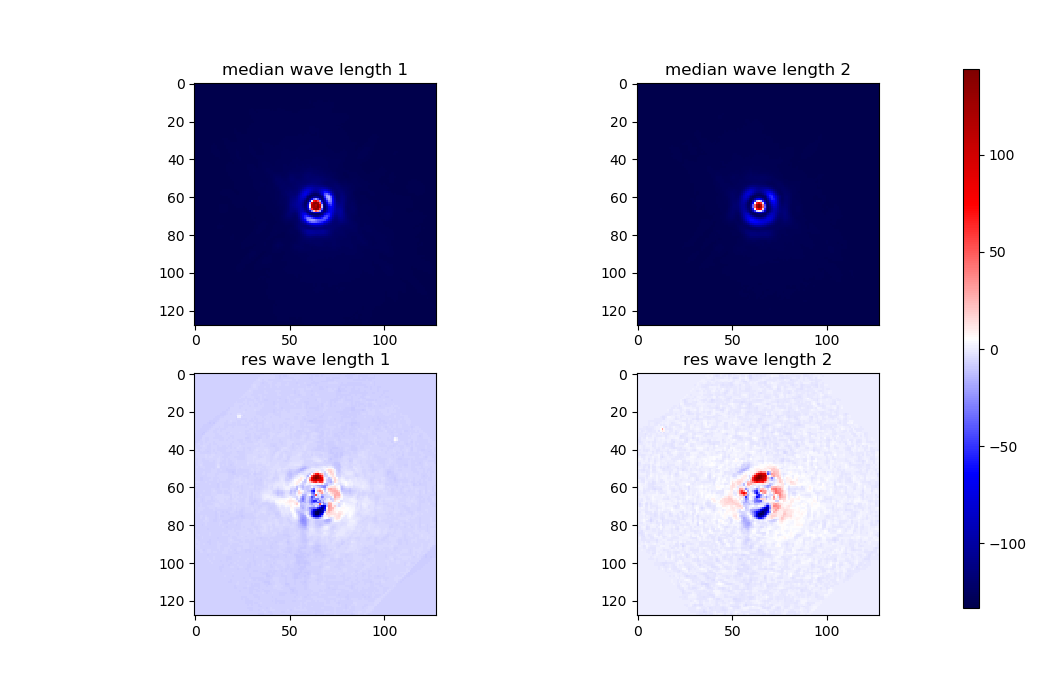
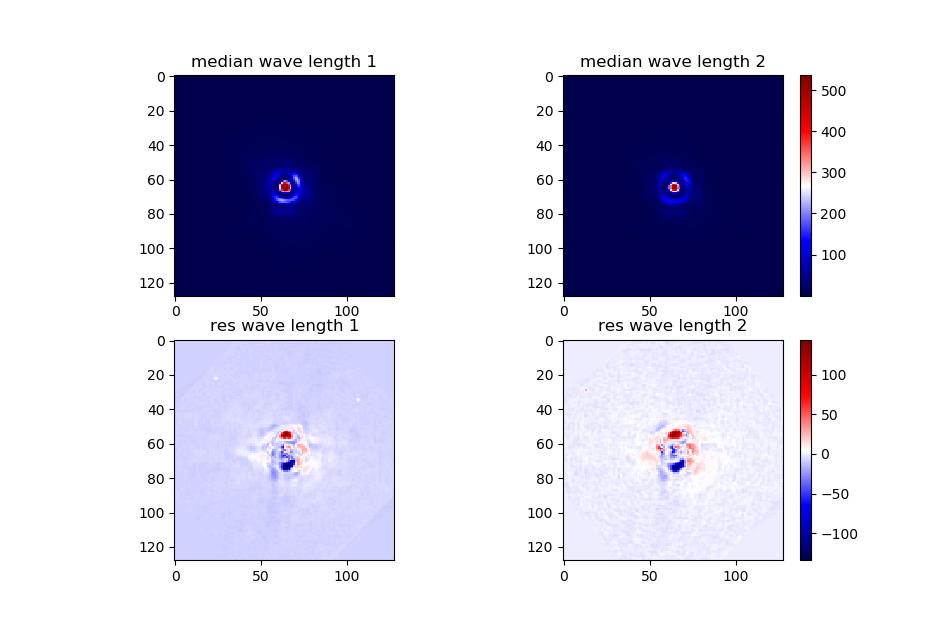
colorbar is good

diff --git a/RDI.py b/RDI.py
@@ -166,18 +166,20 @@ def process_ADI(science_frames, rotations):
     '''
     axs[0, 0].imshow(f_median[0], cmap=plt.cm.seismic)
     axs[0, 0].set_title("median wave length 1")
-    axs[0, 1].imshow(f_median[1], cmap=plt.cm.seismic)
+    im2 = axs[0, 1].imshow(f_median[1], cmap=plt.cm.seismic)
     axs[0, 1].set_title("median wave length 2")
     axs[1, 0].imshow(res[0], cmap=plt.cm.seismic)
     axs[1, 0].set_title("res wave length 1")
-    im3 = axs[1, 1].imshow(res[1], cmap=plt.cm.seismic)
+    im4 = axs[1, 1].imshow(res[1], cmap=plt.cm.seismic)
     axs[1, 1].set_title("res wave length 2")
     
-    fig.subplots_adjust(right=0.9)
-    position = fig.add_axes([0.92, 0.12, 0.015, .78 ])#位置[左,下,右,上]
-    cb = fig.colorbar(im3, cax=position)
+    #fig.subplots_adjust(right=1.9)
+    #pos1 = fig.add_axes([0.92, 0.41, 0.015, 0.77])#位置[左,下,右,上]
+    cb = fig.colorbar(im2, ax=axs[0,1])
+    
+    #pos2 = fig.add_axes([0.92, 0.11, 0.015, 0.30])#位置[左,下,右,上]
+    cb = fig.colorbar(im4, ax=axs[1,1])
 
-    #fig.colorbar(pcm1, ax=axs[0], fraction=0.046, pad=0.04)
     plt.show()
     
     return None 
